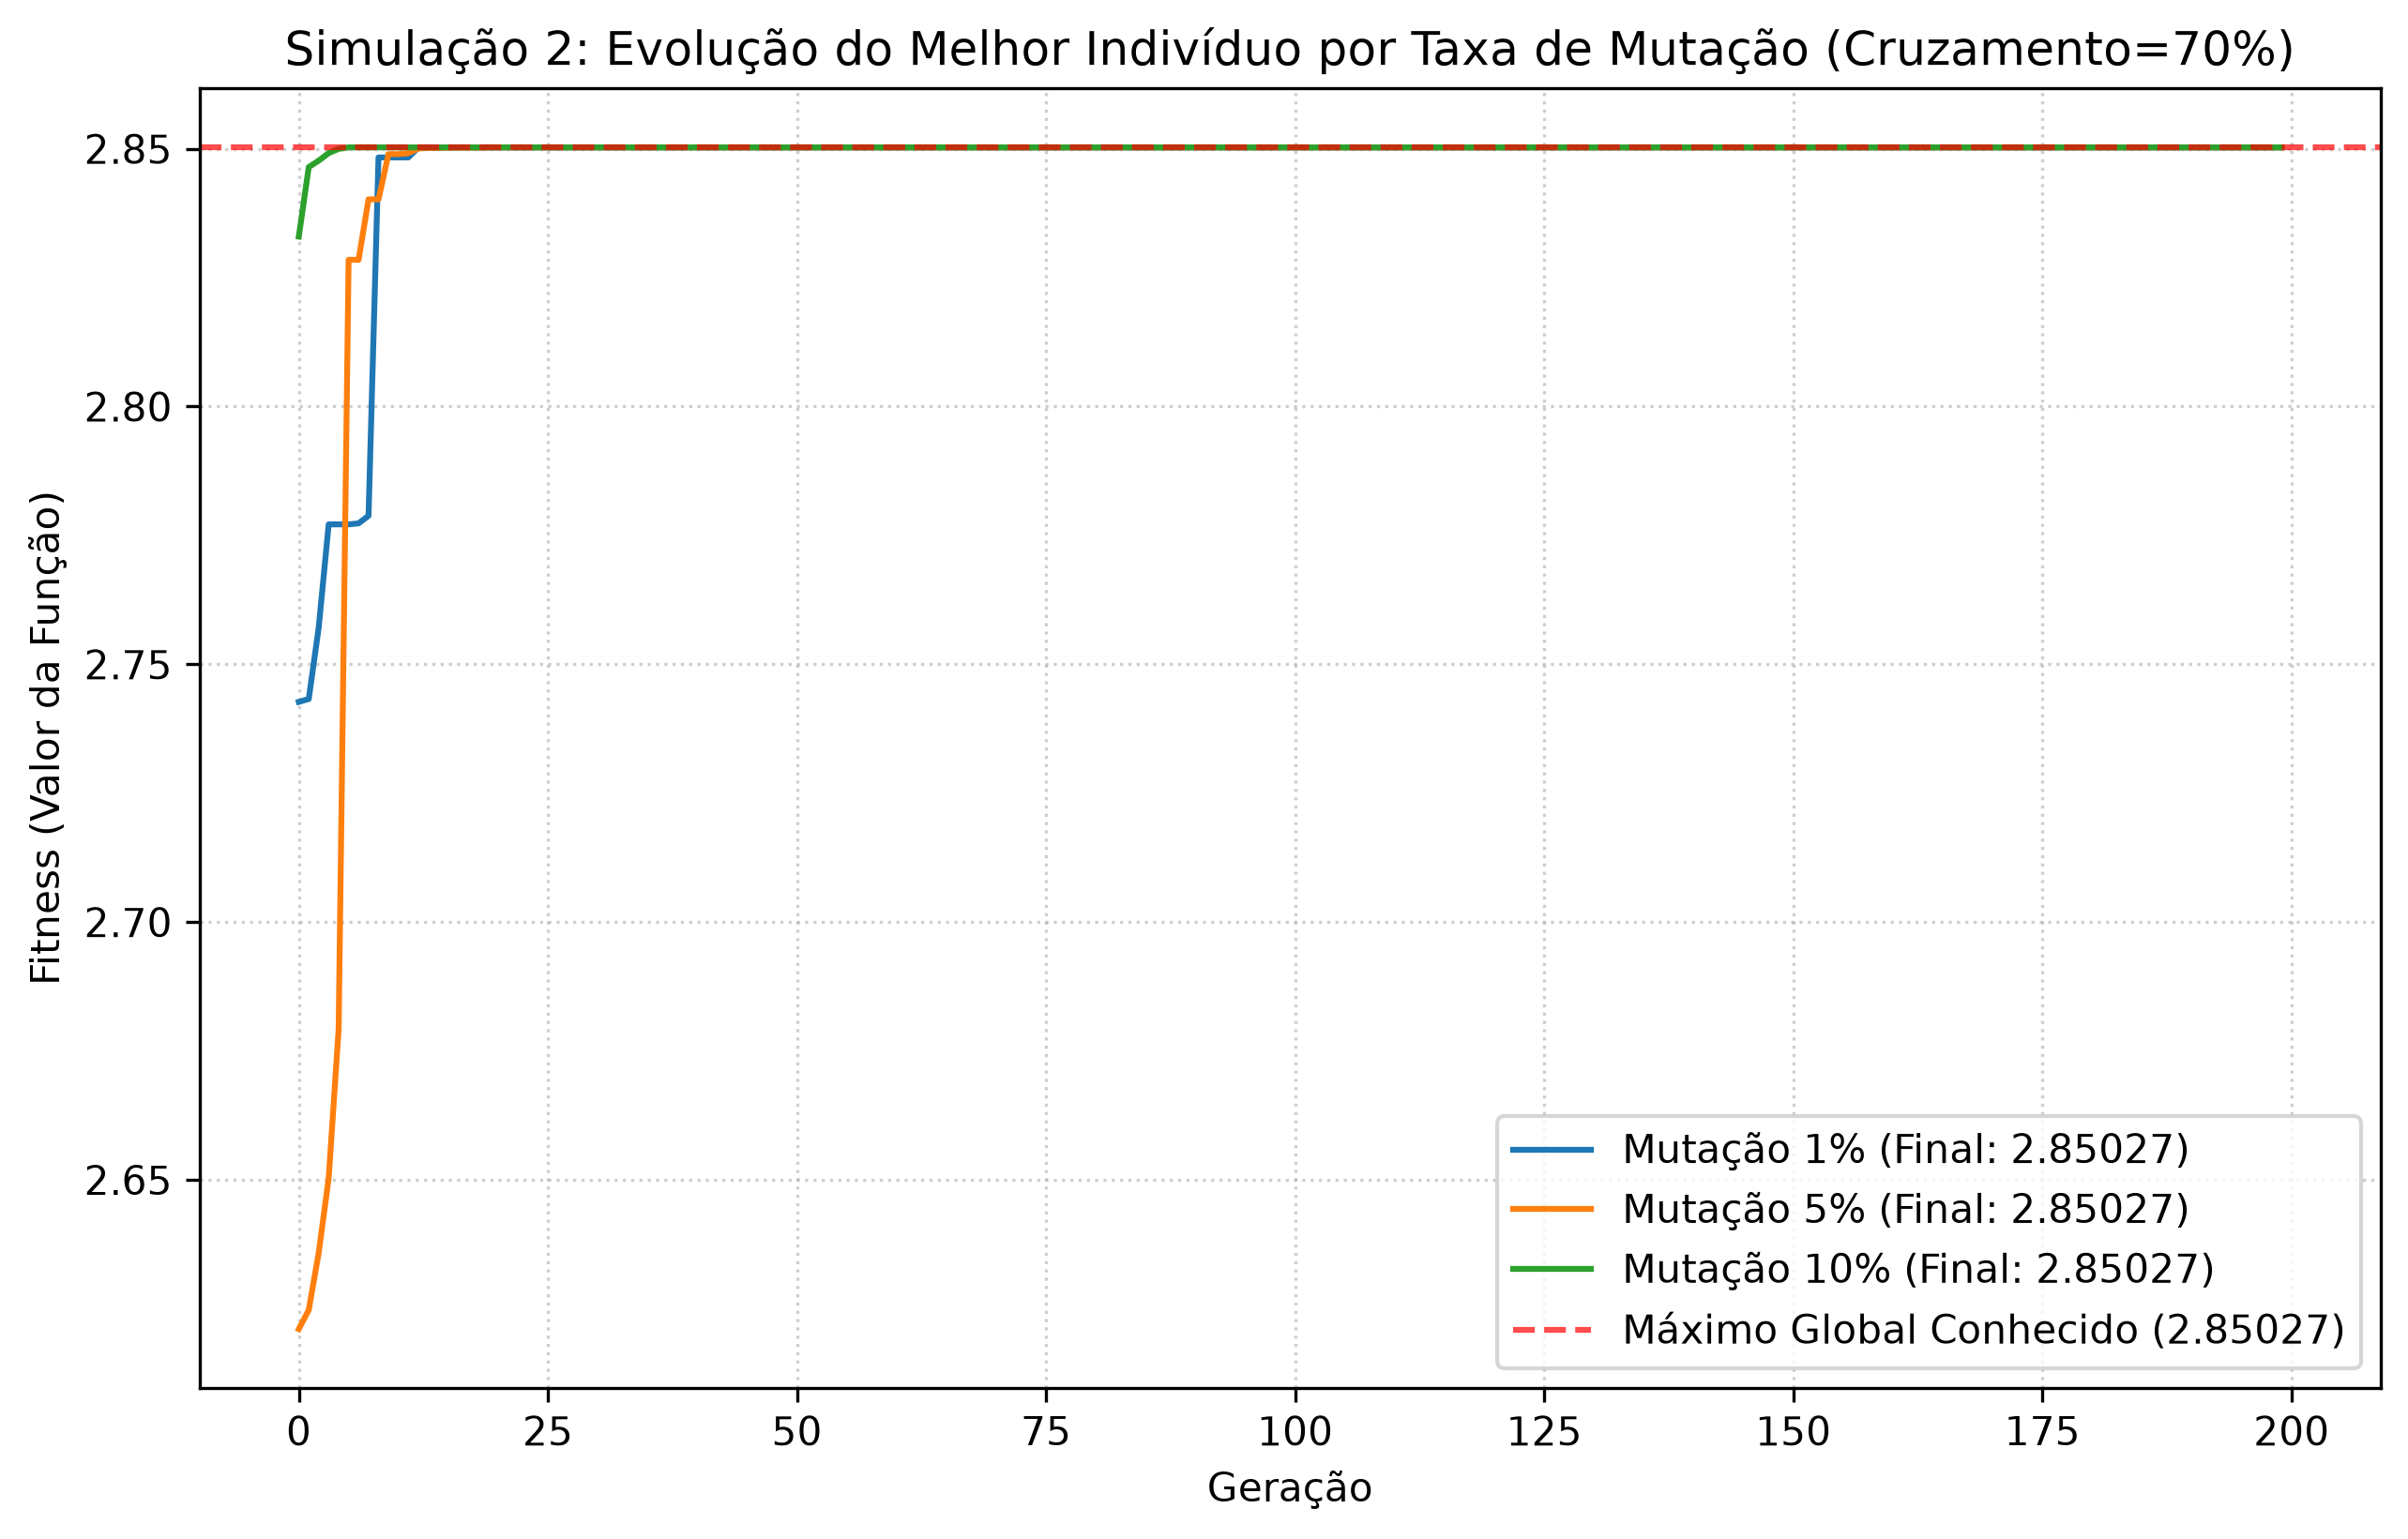
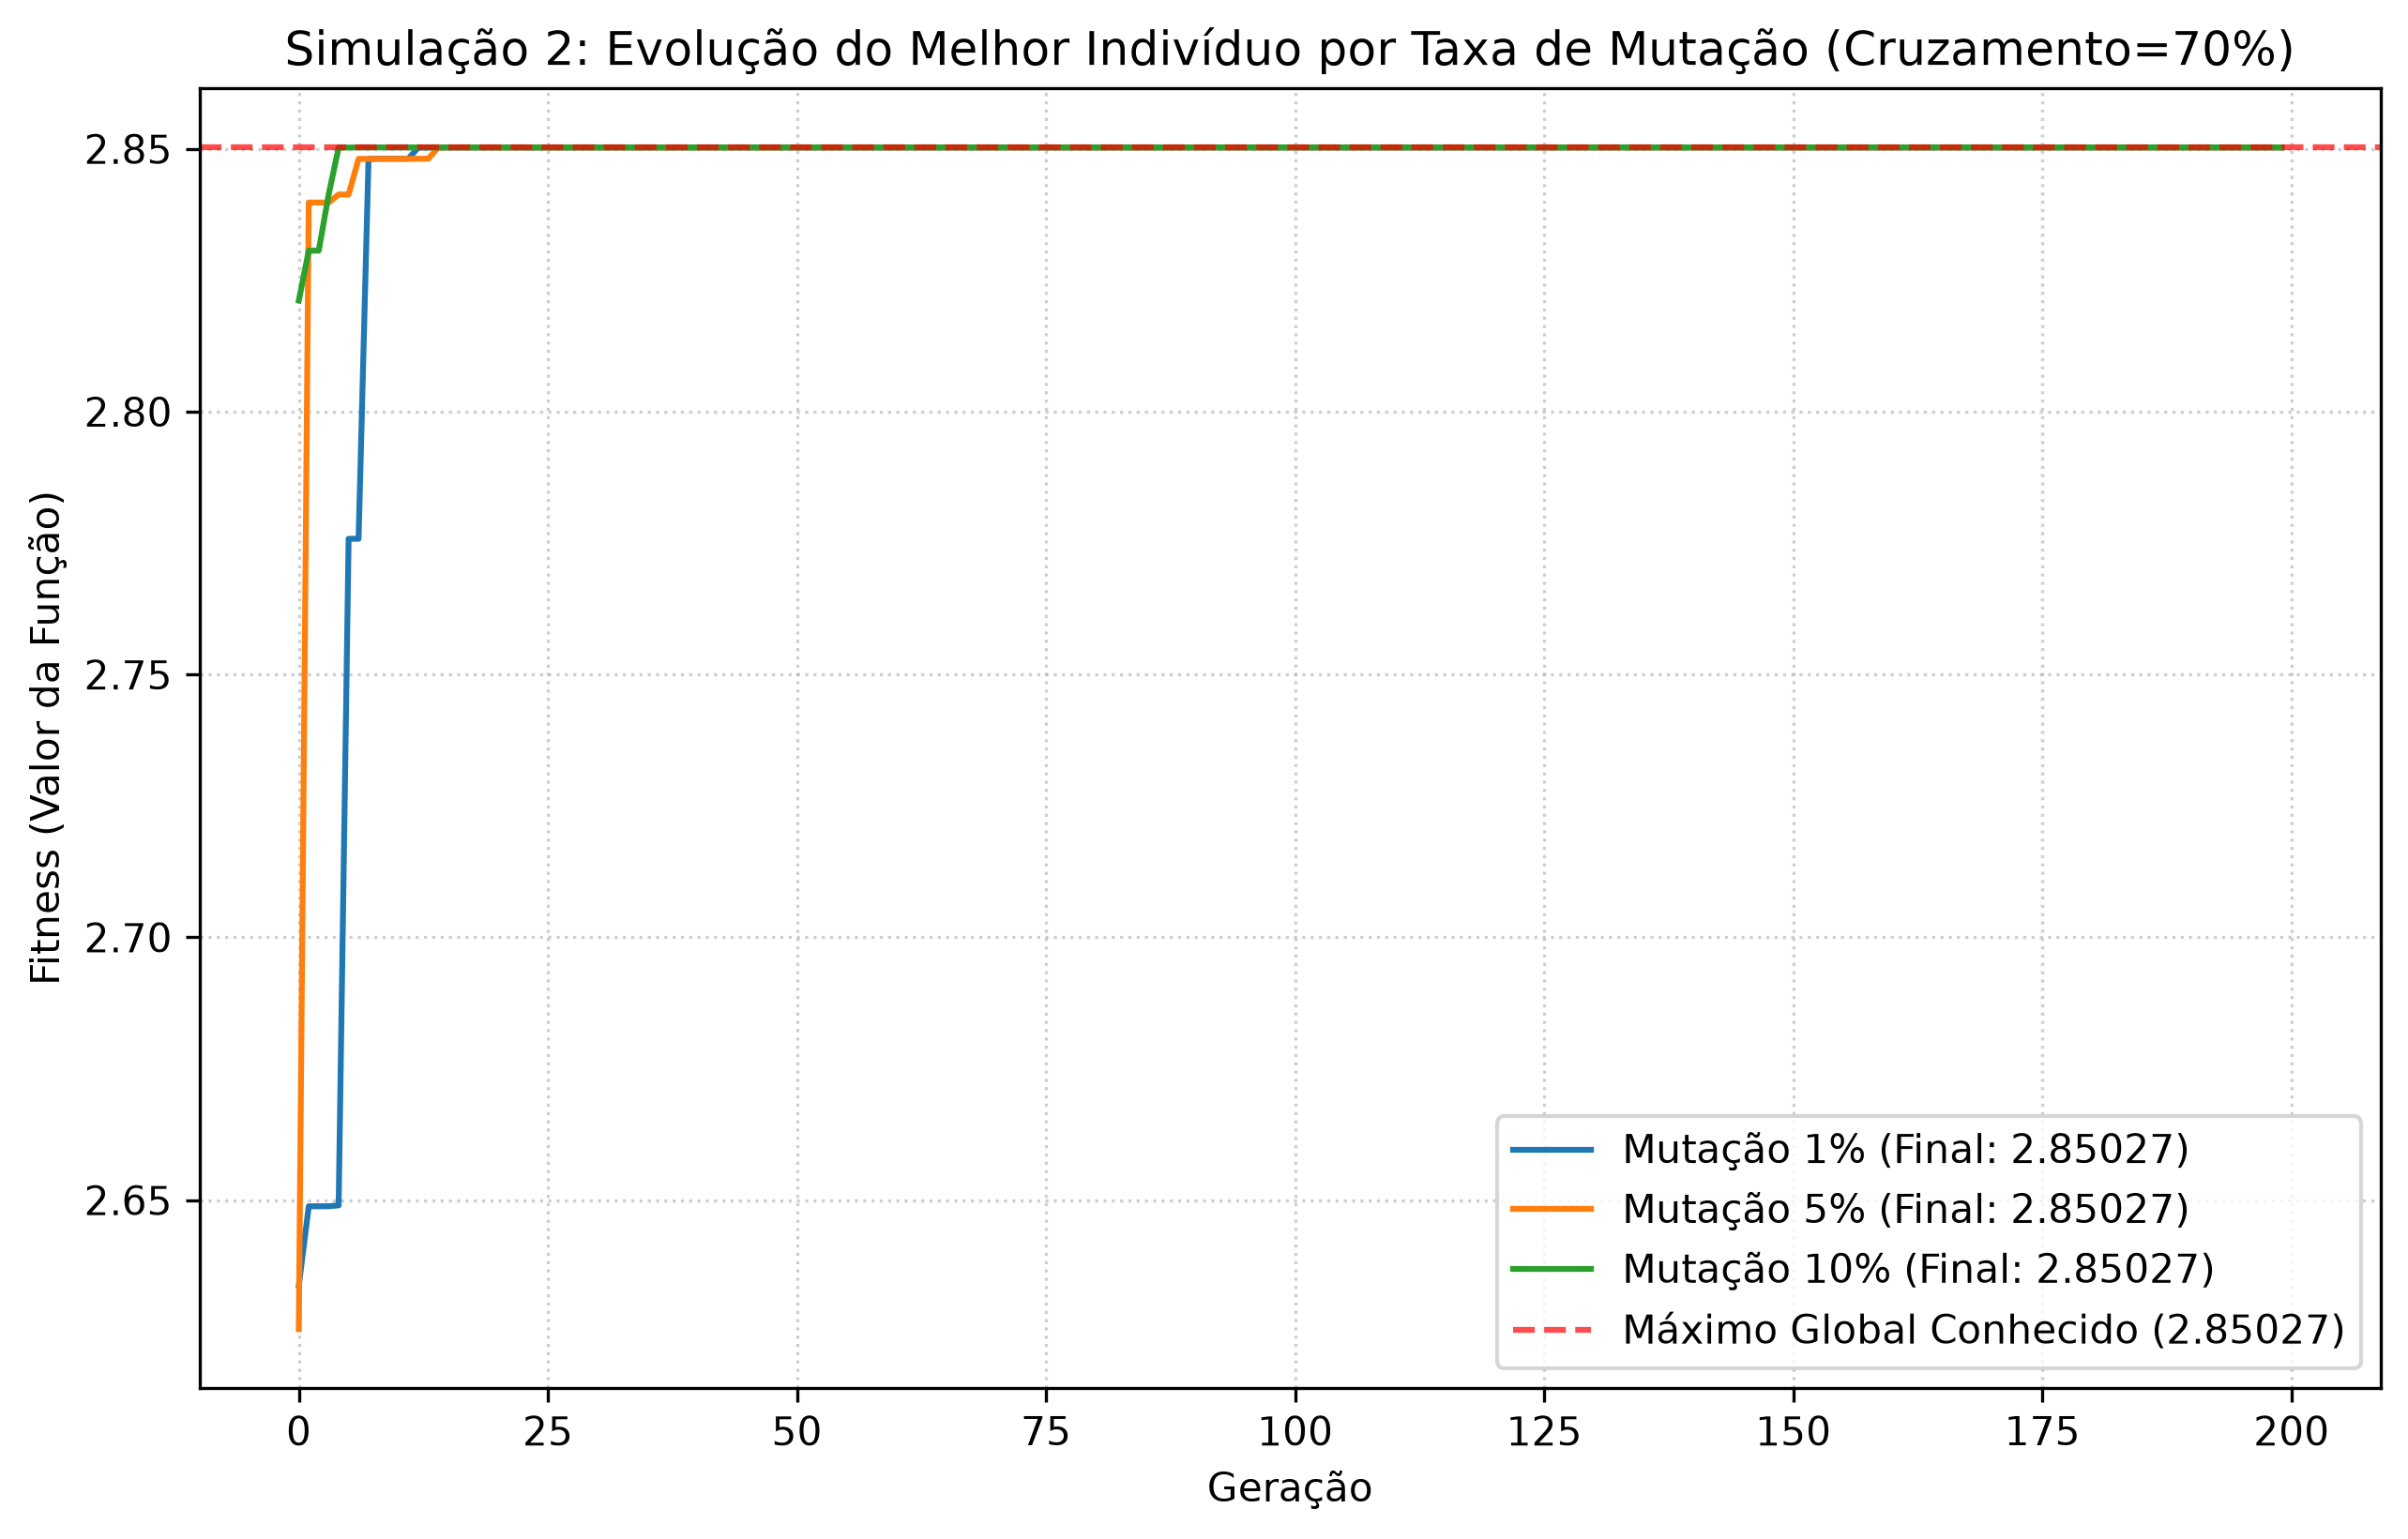
fix image report

diff --git a/main.py b/main.py
@@ -1,23 +1,12 @@
-import os
 import matplotlib
 matplotlib.use('Agg')
 import matplotlib.pyplot as plt
 from ag import AlgoritmoGenetico
 
-# Caminho do diretório de artefatos para salvar as imagens caso exista
-ARTIFACT_DIR = r"C:\Users\Usuário\.gemini\antigravity\brain\153d5e71-8a90-4e7b-985e-0f81a3b4a3d3"
-
 def salvar_grafico(fig, nome_arquivo):
-    """Salva a figura no diretório de trabalho e no diretório de artefatos, se ele existir."""
-    # Salva no diretório atual
+    """Salva a figura no diretório de trabalho atual."""
     fig.savefig(nome_arquivo, dpi=300, bbox_inches='tight')
     print(f"Gráfico salvo no diretório atual como: {nome_arquivo}")
-    
-    # Salva no diretório de artefatos
-    if os.path.exists(ARTIFACT_DIR):
-        caminho_artefato = os.path.join(ARTIFACT_DIR, nome_arquivo)
-        fig.savefig(caminho_artefato, dpi=300, bbox_inches='tight')
-        print(f"Gráfico copiado para os artefatos em: {caminho_artefato}")
 
 def executar_simulacao_1():
     print("==================================================")